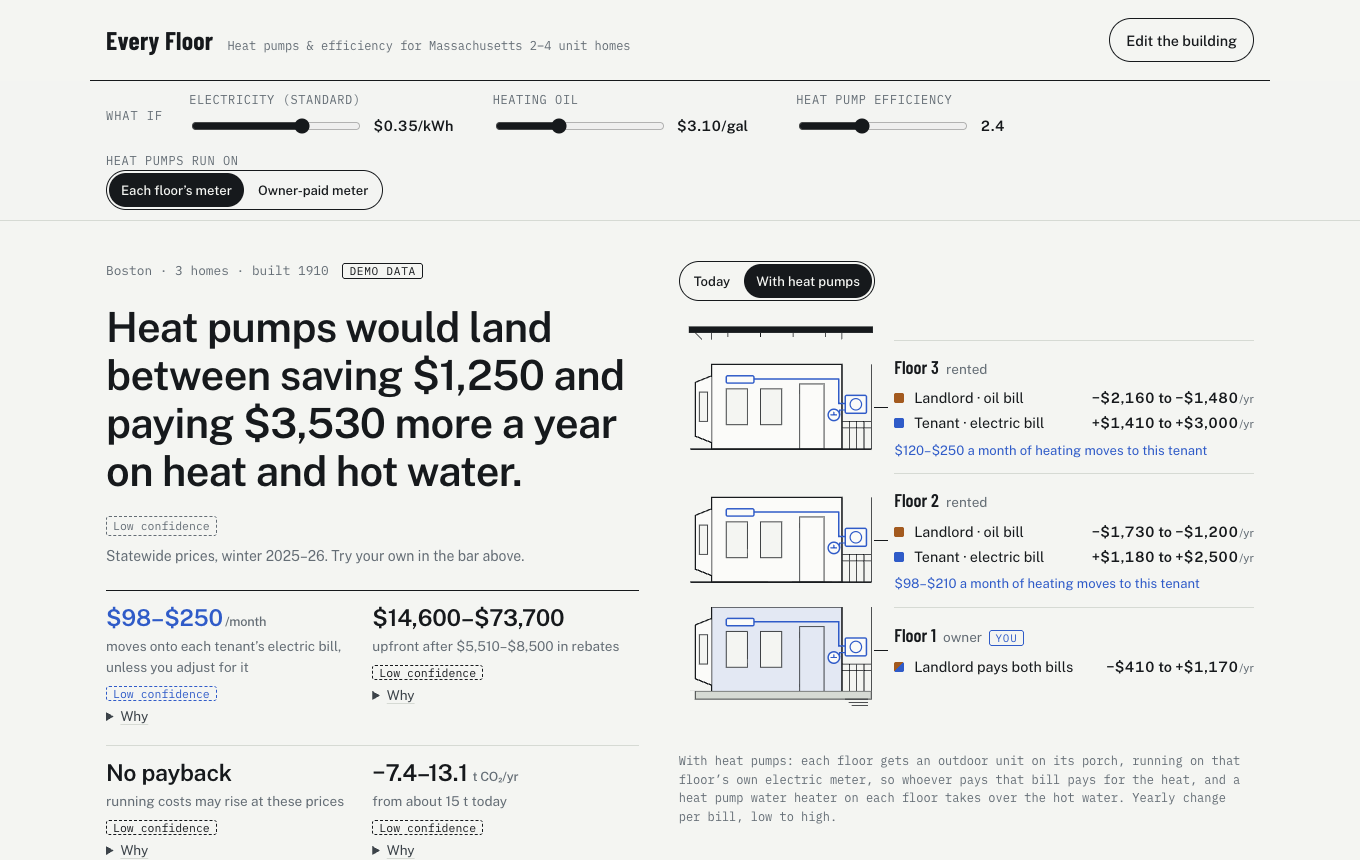
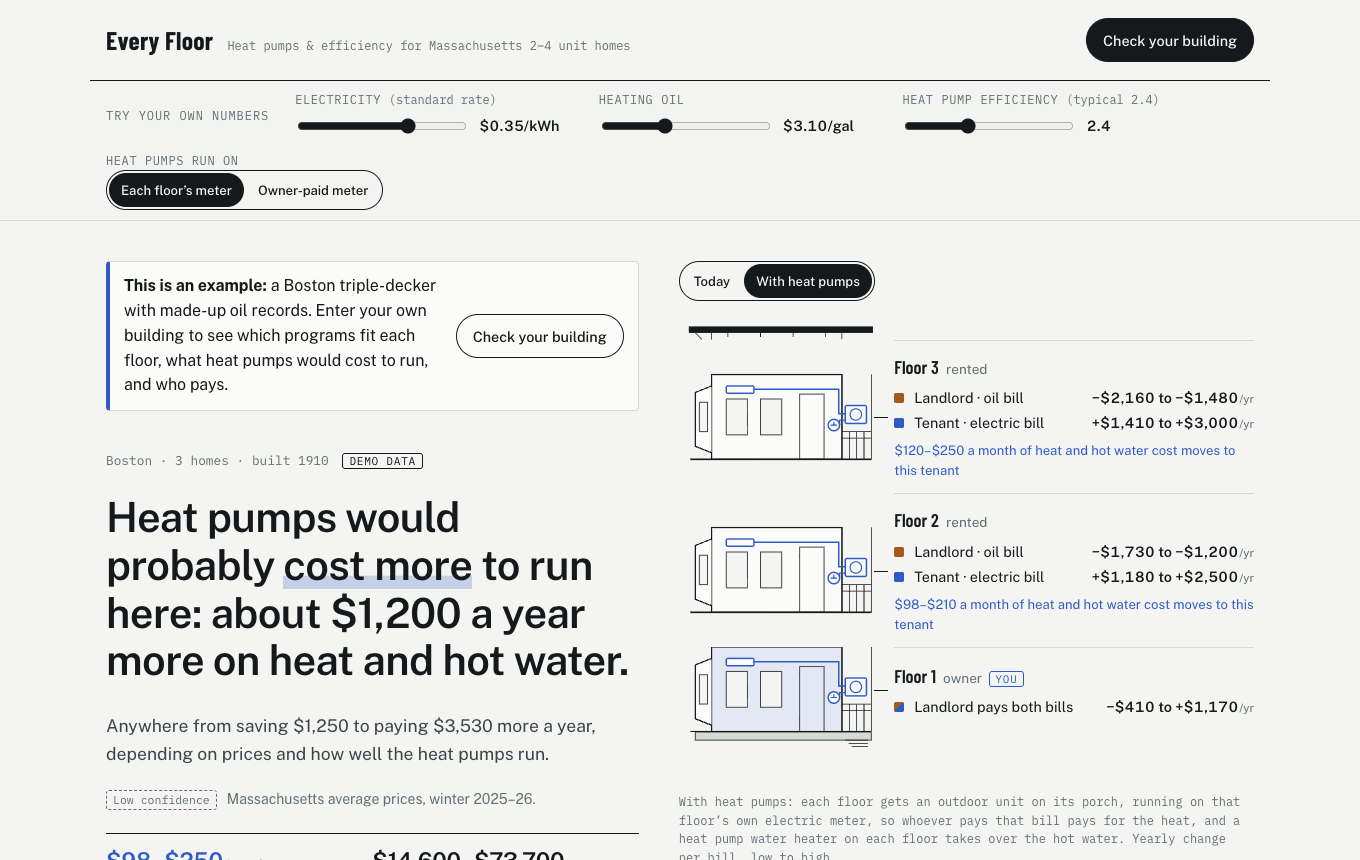
ui: clarity pass — example notice and 'Check your building', likely result first, phone-folded price controls, plainer labels, plan before map

diff --git a/web/src/report.ts b/web/src/report.ts
@@ -73,14 +73,17 @@ const between = (lo: number, hi: number, f: (x: number) => string = usd): string
 
 // ---------- 1. the answer, beside the switch drawn as a mechanism ----------
 
-function headline(r: Report, s: State): { text: string; e: Estimate | null } {
+function headline(r: Report, s: State): { text: string; e: Estimate | null; range?: string } {
   if (r.buildingChange && s.input.role !== 'tenant') {
     const e = r.buildingChange
     const hw = r.units.some(u => u.hotWater && u.hotWater.after !== 'boiler')
     const costs = hw ? 'heat and hot water costs' : 'heating costs'
     if (e.range.low >= 0) return { e, text: `Heat pumps would <em>raise</em> this building’s ${costs} by ${rangeN('hl', e.range.low, e.range.high)} a year.` }
     if (e.range.high <= 0) return { e, text: `Heat pumps would <em>cut</em> this building’s ${costs} by ${rangeN('hl', -e.range.high, -e.range.low)} a year.` }
-    return { e, text: `Heat pumps would land between saving ${n('hl.lo', -e.range.low)} and paying ${n('hl.hi', e.range.high)} more a year on ${hw ? 'heat and hot water' : 'heating'}.` }
+    const range = `Anywhere from saving ${n('hl.lo', -e.range.low)} to paying ${n('hl.hi', e.range.high)} more a year, depending on prices and how well the heat pumps run.`
+    return e.range.mid >= 0
+      ? { e, range, text: `Heat pumps would probably <em>cost more</em> to run here: about ${n('hl.mid', e.range.mid)} a year more on ${hw ? 'heat and hot water' : 'heating'}.` }
+      : { e, range, text: `Heat pumps would probably <em>save</em> money here: about ${n('hl.mid', -e.range.mid)} a year on ${hw ? 'heat and hot water' : 'heating'}.` }
   }
   const mine = r.units.find(u => u.unitId === s.input.userUnitId)
   const tenant = s.input.role === 'tenant'
@@ -220,9 +223,11 @@ function hero(r: Report, s: State, v: View): string {
   const whatIf = Object.keys(v.whatIf).length > 0
   return `<section class="hero" aria-labelledby="h-answer">
     <div class="answer">
-      <p class="sheet">${esc(sheet)}${s.demo ? ' <span class="tag">demo data</span>' : ''}${whatIf ? ' <span class="tag whatif">what-if values</span>' : ''}</p>
+      ${s.demo ? `<div class="intro-line"><p><strong>This is an example:</strong> a Boston triple-decker with made-up oil records. Enter your own building to see which programs fit each floor, what heat pumps would cost to run, and who pays.</p><button type="button" data-action="edit">Check your building</button></div>` : ''}
+      <p class="sheet">${esc(sheet)}${s.demo ? ' <span class="tag">demo data</span>' : ''}${whatIf ? ' <span class="tag whatif">your numbers</span>' : ''}</p>
       <h1 id="h-answer" class="headline">${h.text}</h1>
-      ${h.e ? `<p class="headline-meta">${confNote(h.e)} ${whatIf ? 'Using your what-if values.' : 'Statewide prices, winter 2025–26. Try your own in the bar above.'}</p>` : ''}
+      ${h.range ? `<p class="headline-range">${h.range}</p>` : ''}
+      ${h.e ? `<p class="headline-meta">${confNote(h.e)} ${whatIf ? 'Using your own numbers.' : 'Massachusetts average prices, winter 2025–26.'}</p>` : ''}
       ${keyFigures(r)}
       ${r.landlordReason ? `<p class="muted">${esc(r.landlordReason)}</p>` : ''}
     </div>
@@ -261,7 +266,7 @@ function heatPrice(s: State, v: View): string {
   const standard = list.find(a => a.id === 'price.electricity')?.value.mid ?? 0
   const cop = list.find(a => a.id === 'heat_pump_seasonal_cop')?.value.mid ?? 0
   const lead = cur && hp
-    ? `One million Btu of heat from a heat pump costs about ${n('why.hp', hp.perMMBtu.range.mid, 'c2')}, against ${n('why.cur', cur.perMMBtu.range.mid, 'c2')} from ${SOURCE_LABEL[current].toLowerCase()}. ${hp.perMMBtu.range.mid > cur.perMMBtu.range.mid ? 'At these prices, electricity costs more than the heat pump’s efficiency saves.' : 'At these prices, the heat pump’s efficiency wins.'}`
+    ? `Heat from a heat pump costs about ${n('why.hp', hp.perMMBtu.range.mid, 'c2')} per million Btu. From ${current === 'electric_resistance' ? 'electric baseboard' : `an ${SOURCE_LABEL[current].toLowerCase()}`.replace('an propane', 'a propane').replace('an gas', 'a gas')}, about ${n('why.cur', cur.perMMBtu.range.mid, 'c2')}. ${hp.perMMBtu.range.mid > cur.perMMBtu.range.mid ? 'A heat pump is very efficient, but here electricity costs more than that efficiency makes up for.' : 'Here the heat pump’s efficiency more than makes up for the price of electricity.'}`
     : ''
   const verdict = be
     ? `<div class="be-grid">
@@ -273,7 +278,7 @@ function heatPrice(s: State, v: View): string {
     <caption>Cost per million Btu (MMBtu) of heat delivered</caption><thead><tr><th scope="col">System</th><th scope="col">Low</th><th scope="col">Typical</th><th scope="col">High</th><th scope="col">Confidence</th></tr></thead>
     <tbody>${rows.map(r => `<tr><th scope="row">${SOURCE_LABEL[r.id]}</th><td>$${num(r.perMMBtu.range.low, 2)}</td><td>$${num(r.perMMBtu.range.mid, 2)}</td><td>$${num(r.perMMBtu.range.high, 2)}</td><td>${CONF[r.perMMBtu.confidence]}${whyList(r.perMMBtu, 'Why')}</td></tr>`).join('')}</tbody></table></div></details>`
   return `<section class="band" aria-labelledby="h-why"><div class="band-text">
-      <h2 id="h-why">The price of one unit of heat</h2><p>${lead}</p>${verdict}
+      <h2 id="h-why">Why: the price of one unit of heat</h2><p>${lead}</p><p class="muted">One million Btu is about the heat in 7 gallons of heating oil.</p>${verdict}
       <p class="muted">${hpRate?.rate === 'seasonal'
         ? `Heat pump electricity is priced at the winter heat pump rate: ${fmt(standard, 'c2')}/kWh standard, ${fmt(elec, 'c2')}/kWh for a heat pump home from November to April. `
         : `${esc(hpRate?.note ?? '')} `}Test your own electricity price (the standard rate), ${fuelName(current)} price or heat pump efficiency in the bar above.</p>
@@ -410,6 +415,8 @@ function plan(r: Report): string {
 // ---------- 6. engineering notes ----------
 
 function engineering(r: Report, s: State): string {
+  // A note every floor shares is shown once, under the columns.
+  const shared = r.units.length > 1 ? (r.units[0]?.notes ?? []).filter(n => r.units.every(u => u.notes.includes(n))) : []
   const cols = r.units.map(e => {
     const u = s.input.building.units.find(x => x.id === e.unitId)
     if (!u) return ''
@@ -426,12 +433,12 @@ function engineering(r: Report, s: State): string {
     }
     if (e.co2) chain.push(node('CO₂', `${num(e.co2.before.range.mid, 1)} → ${num(e.co2.after.range.mid, 1)} t`, 'a year, typical'))
     const cmp = e.comparison ? `<p class="cmp" data-pos="${e.comparison.position}">${esc(e.comparison.message)}</p>` : ''
-    const notes = e.notes.map(n => `<p class="muted">${esc(n)}</p>`).join('')
+    const notes = e.notes.filter(n => !shared.includes(n)).map(n => `<p class="muted">${esc(n)}</p>`).join('')
     return `<div class="eng-col" data-floor="${e.unitId}"><h3>${FLOOR(e.unitId)}</h3><ol class="chain">${chain.join('')}</ol>${cmp}${notes}</div>`
   }).join('')
   return `<section aria-labelledby="h-eng"><h2 id="h-eng">How each number is worked out</h2>
     <p class="lede">Each floor’s fuel records are scaled to a normal Massachusetts winter with NOAA degree days. When the boiler also heats water, the hot-water share comes out. The heat pump runs at the efficiency measured in real Massachusetts and New York homes. The full worked example for the demo building is in the <a href="https://github.com/Qiao527/ma-energy-navigator/blob/main/docs/methods.md" target="_blank" rel="noopener">methods write-up</a>.</p>
-    <div class="eng">${cols}</div></section>`
+    <div class="eng">${cols}</div>${shared.map(n => `<p class="muted">${esc(n)}</p>`).join('')}</section>`
 }
 function node(label: string, value: string, note: string, e?: Estimate): string {
   return `<li><span class="n-label">${label}</span><span class="n-value">${value}</span><span class="n-note">${note}</span>${e ? whyList(e, 'Steps and sources') : ''}</li>`
@@ -459,5 +466,5 @@ export function reportHtml(s: State, v: View): string {
   }
   const { r, error } = compute(s, v)
   if (error || !r) return `<p class="error" role="alert">This building can’t be estimated yet: ${esc(error ?? 'unknown error')}. Check the details in “Edit the building”.</p>`
-  return `${hero(r, s, v)}${heatPrice(s, v)}${beforeAfter(r, s, v)}${isLandlord(s) ? fairness(r) : ''}${mapSection(s, v.zoom)}${plan(r)}${engineering(r, s)}${rest(r)}`
+  return `${hero(r, s, v)}${heatPrice(s, v)}${beforeAfter(r, s, v)}${isLandlord(s) ? fairness(r) : ''}${plan(r)}${mapSection(s, v.zoom)}${engineering(r, s)}${rest(r)}`
 }

diff --git a/web/src/page.html b/web/src/page.html
@@ -252,7 +252,17 @@ footer .wrap { border-top: 1.5px solid var(--ink); padding-block: 24px 40px; dis
 .ctl output { font: 600 0.9rem var(--body); font-variant-numeric: tabular-nums; min-width: 6.5em; }
 .ctl.meter { grid-template-columns: auto; }
 .reset { font-size: 0.8rem; min-height: 36px; padding: 6px 12px; }
-@media (max-width: 700px) { .whatif { position: static; } .whatif-row { gap: 8px 16px; } }
+@media (max-width: 700px) { .whatif { position: static; } .whatif-row { gap: 8px 16px; } .whatif:not(.open) .whatif-row { display: none; } }
+.whatif-toggle-row { display: none; }
+@media (max-width: 700px) { .whatif-toggle-row { display: block; padding-block: 8px; } }
+.whatif-toggle { background: none; border: 1px solid var(--line); border-radius: 999px; padding: 8px 14px; font: inherit; color: var(--ink); min-height: 44px; cursor: pointer; }
+.ctl-hint { text-transform: none; letter-spacing: 0; color: var(--muted); }
+.topbar button.primary { background: var(--ink); color: var(--paper); border-color: var(--ink); white-space: nowrap; }
+@media (max-width: 420px) { .topbar button.primary { padding-inline: 14px; font-size: .9rem; } }
+.intro-line { margin: 0 0 18px; padding: 12px 14px; border: 1px solid var(--line); border-left: 4px solid var(--elec); background: var(--surface); border-radius: 4px; display: flex; flex-wrap: wrap; gap: 8px 14px; align-items: center; }
+.intro-line p { margin: 0; flex: 1 1 260px; min-width: 0; }
+.intro-line button { white-space: nowrap; }
+.headline-range { margin: 6px 0 0; font-size: 1.1rem; color: var(--ink-2); }
 .seg-toggle { display: inline-flex; border: 1.5px solid var(--ink); border-radius: 999px; padding: 2px; gap: 2px; justify-self: start; }
 .seg-toggle button { border: 0; min-height: 34px; padding: 5px 12px; font-size: 0.82rem; }
 .seg-toggle button[aria-pressed="true"] { background: var(--ink); color: var(--paper); }
@@ -356,13 +366,15 @@ footer .wrap { border-top: 1.5px solid var(--ink); padding-block: 24px 40px; dis
 <p id="preview" class="preview" role="status" hidden></p>
 <header class="topbar"><div class="wrap">
   <p class="wordmark"><strong>Every Floor</strong><span>Heat pumps &amp; efficiency for Massachusetts 2–4 unit homes</span></p>
-  <button type="button" data-action="edit">Edit the building</button>
+  <button type="button" data-action="edit" id="edit-top" class="primary">Check your building</button>
 </div></header>
-<div class="whatif" id="whatif" role="region" aria-label="What-if controls: they change every number on the page"><div class="wrap whatif-row">
-  <span class="kicker">What if</span>
-  <div class="ctl"><label for="wi-elec">Electricity (standard)</label><input type="range" id="wi-elec" min="0.15" max="0.45" step="0.01"><output id="wi-elec-o" for="wi-elec"></output></div>
+<div class="whatif" id="whatif" role="region" aria-label="Try your own numbers: they change every number on the page">
+<div class="wrap whatif-toggle-row"><button type="button" id="wi-toggle" class="whatif-toggle" aria-expanded="false" aria-controls="wi-row">Try your own prices ▾</button></div>
+<div class="wrap whatif-row" id="wi-row">
+  <span class="kicker">Try your own numbers</span>
+  <div class="ctl"><label for="wi-elec">Electricity <span class="ctl-hint">(standard rate)</span></label><input type="range" id="wi-elec" min="0.15" max="0.45" step="0.01"><output id="wi-elec-o" for="wi-elec"></output></div>
   <div class="ctl" id="wi-fuel-ctl"><label for="wi-fuel" id="wi-fuel-l">Heating oil</label><input type="range" id="wi-fuel" min="2" max="5" step="0.05"><output id="wi-fuel-o" for="wi-fuel"></output></div>
-  <div class="ctl"><label for="wi-cop">Heat pump efficiency</label><input type="range" id="wi-cop" min="1.5" max="4" step="0.1"><output id="wi-cop-o" for="wi-cop"></output></div>
+  <div class="ctl"><label for="wi-cop">Heat pump efficiency <span class="ctl-hint">(typical 2.4)</span></label><input type="range" id="wi-cop" min="1.5" max="4" step="0.1"><output id="wi-cop-o" for="wi-cop"></output></div>
   <div class="ctl meter"><span class="ctl-l" id="wi-meter-l">Heat pumps run on</span><div class="seg-toggle" role="group" aria-labelledby="wi-meter-l"><button type="button" data-meter="unit">Each floor’s meter</button><button type="button" data-meter="owner">Owner-paid meter</button></div></div>
   <button type="button" id="wi-reset" class="reset">Back to statewide averages</button>
 </div></div>

diff --git a/web/src/main.ts b/web/src/main.ts
@@ -121,6 +121,7 @@ function render(announce = true): void {
   reportEl.innerHTML = reportHtml(state, view)
   if (!reduced.matches) play(old)
   syncControls()
+  $('edit-top').textContent = state.demo ? 'Check your building' : 'Edit your building'
   if (announce) {
     clearTimeout(announceTimer)
     announceTimer = window.setTimeout(() => { liveEl.textContent = document.getElementById('h-answer')?.textContent ?? '' }, 900)
@@ -130,6 +131,13 @@ function render(announce = true): void {
 const sticky = (): void => document.documentElement.style.setProperty('--sticky', `${($('whatif').getBoundingClientRect().height || 0) + 16}px`)
 window.addEventListener('resize', sticky)
 function renderForm(): void { formEl.innerHTML = formHtml(state) }
+// Phones: the what-if controls fold away so the answer comes first.
+const wiToggle = $<HTMLButtonElement>('wi-toggle')
+wiToggle.addEventListener('click', () => {
+  const open = $('whatif').classList.toggle('open')
+  wiToggle.setAttribute('aria-expanded', String(open))
+  wiToggle.textContent = open ? 'Hide the price controls ▴' : 'Try your own prices ▾'
+})
 
 // ---------- report interactions ----------
 

diff --git a/web/src/format.ts b/web/src/format.ts
@@ -32,7 +32,7 @@ export const MEASURE: Record<string, string> = {
   financing: '0% financing', bill_assistance: 'Bill help', rooftop_solar: 'Rooftop solar', community_solar: 'Community solar', tax_credit: 'State tax credit',
 }
 export const STATUS: Record<OfferResult['status'], [string, string]> = {
-  eligible: ['Qualifies', 'ok'], potential: ['Likely; the program confirms', 'maybe'], needs_info: ['Needs an answer', 'ask'], not_eligible: ['Not eligible', 'no'],
+  eligible: ['Qualifies', 'ok'], potential: ['Likely', 'maybe'], needs_info: ['Needs an answer', 'ask'], not_eligible: ['Not eligible', 'no'],
 }
 export const QUESTION: Record<string, string> = {
   'unit.hotWaterFromBoiler': 'Does the boiler also heat this floor’s hot water?',

diff --git a/docs/decisions.md b/docs/decisions.md
@@ -2,6 +2,20 @@
 
 Newest first. Format: date — decision — why — decided by.
 
+## 2026-11-08 (Clarity pass for first-time visitors)
+
+- **Wrap-up direction:** no new features; polish so a landlord understands at a glance. — Qiao.
+- **Technical (design critique):**
+  - an "This is an example… Check your building" line on the demo, and the top button reads "Check your
+    building" (then "Edit your building");
+  - the headline leads with the likely result (typical value) and puts the range on the next line;
+  - "What if" becomes "Try your own numbers", folded behind a button on phones so the answer comes first;
+  - "Likely" replaces "Likely; the program confirms";
+  - "What to do, in order" moves ahead of the map;
+  - the price-of-heat section explains a million Btu (about 7 gallons of oil);
+  - a note every floor shares is shown once.
+  axe-core: 0 violations on desktop and phone.
+
 ## 2026-11-08 (Outside audit: three fixes)
 
 - **Town names match regardless of case and spaces** (`derive`). "boston" was not found as a Designated Equity
